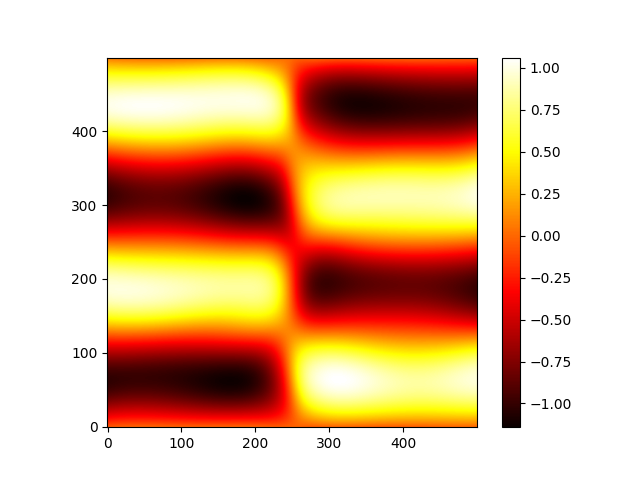
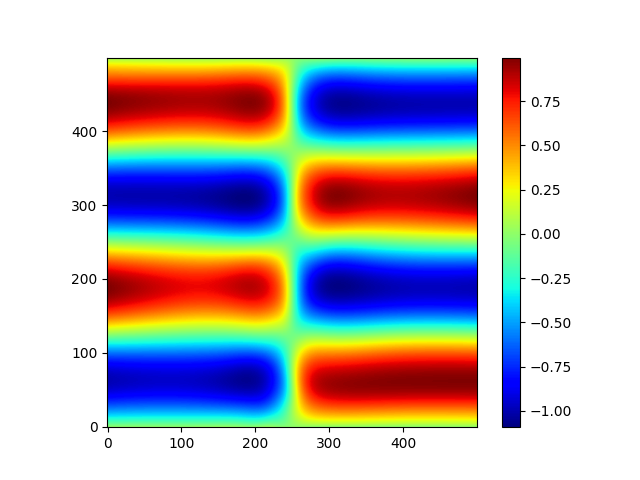
更新了初始化方法

diff --git a/Template/src/net_class.py b/Template/src/net_class.py
@@ -3,6 +3,7 @@ import math
 import torch.nn as nn
 import torch.nn.init as init
 
+'''
 class MyLinearLayer(nn.Module):
     """ Custom Linear layer but mimics a standard linear layer """
     def __init__(self, size_in, size_out):
@@ -24,13 +25,14 @@ class MyLinearLayer(nn.Module):
         return torch.add(w_times_x, self.bias)  # w times x + b
     
 # Neural Network
+'''
 
 class MLP(torch.nn.Module):
     def __init__(self, layer_sizes):
         super(MLP, self).__init__()
         layers = []
         for i in range(len(layer_sizes) - 1):
-            layers.append(MyLinearLayer(layer_sizes[i], layer_sizes[i + 1]))
+            layers.append(nn.Linear(layer_sizes[i], layer_sizes[i + 1]))
             # layers.append(torch.nn.Linear(layer_sizes[i], layer_sizes[i + 1]))
             if i < len(layer_sizes) - 2:  # 不在最后一层时添加激活函数
                 layers.append(nn.Tanh())

diff --git a/Template/test.py b/Template/test.py
@@ -71,7 +71,7 @@ yy = yy.to('cpu')
 
 prediction = prediction.reshape(500, 500)
 prediction = prediction.transpose(0, 1)
-plt.imshow(prediction.detach().numpy(), cmap='hot', origin='lower')
+plt.imshow(prediction.detach().numpy(), cmap='jet', origin='lower')
 plt.colorbar()
 plt.savefig('prediction')
 plt.show()
